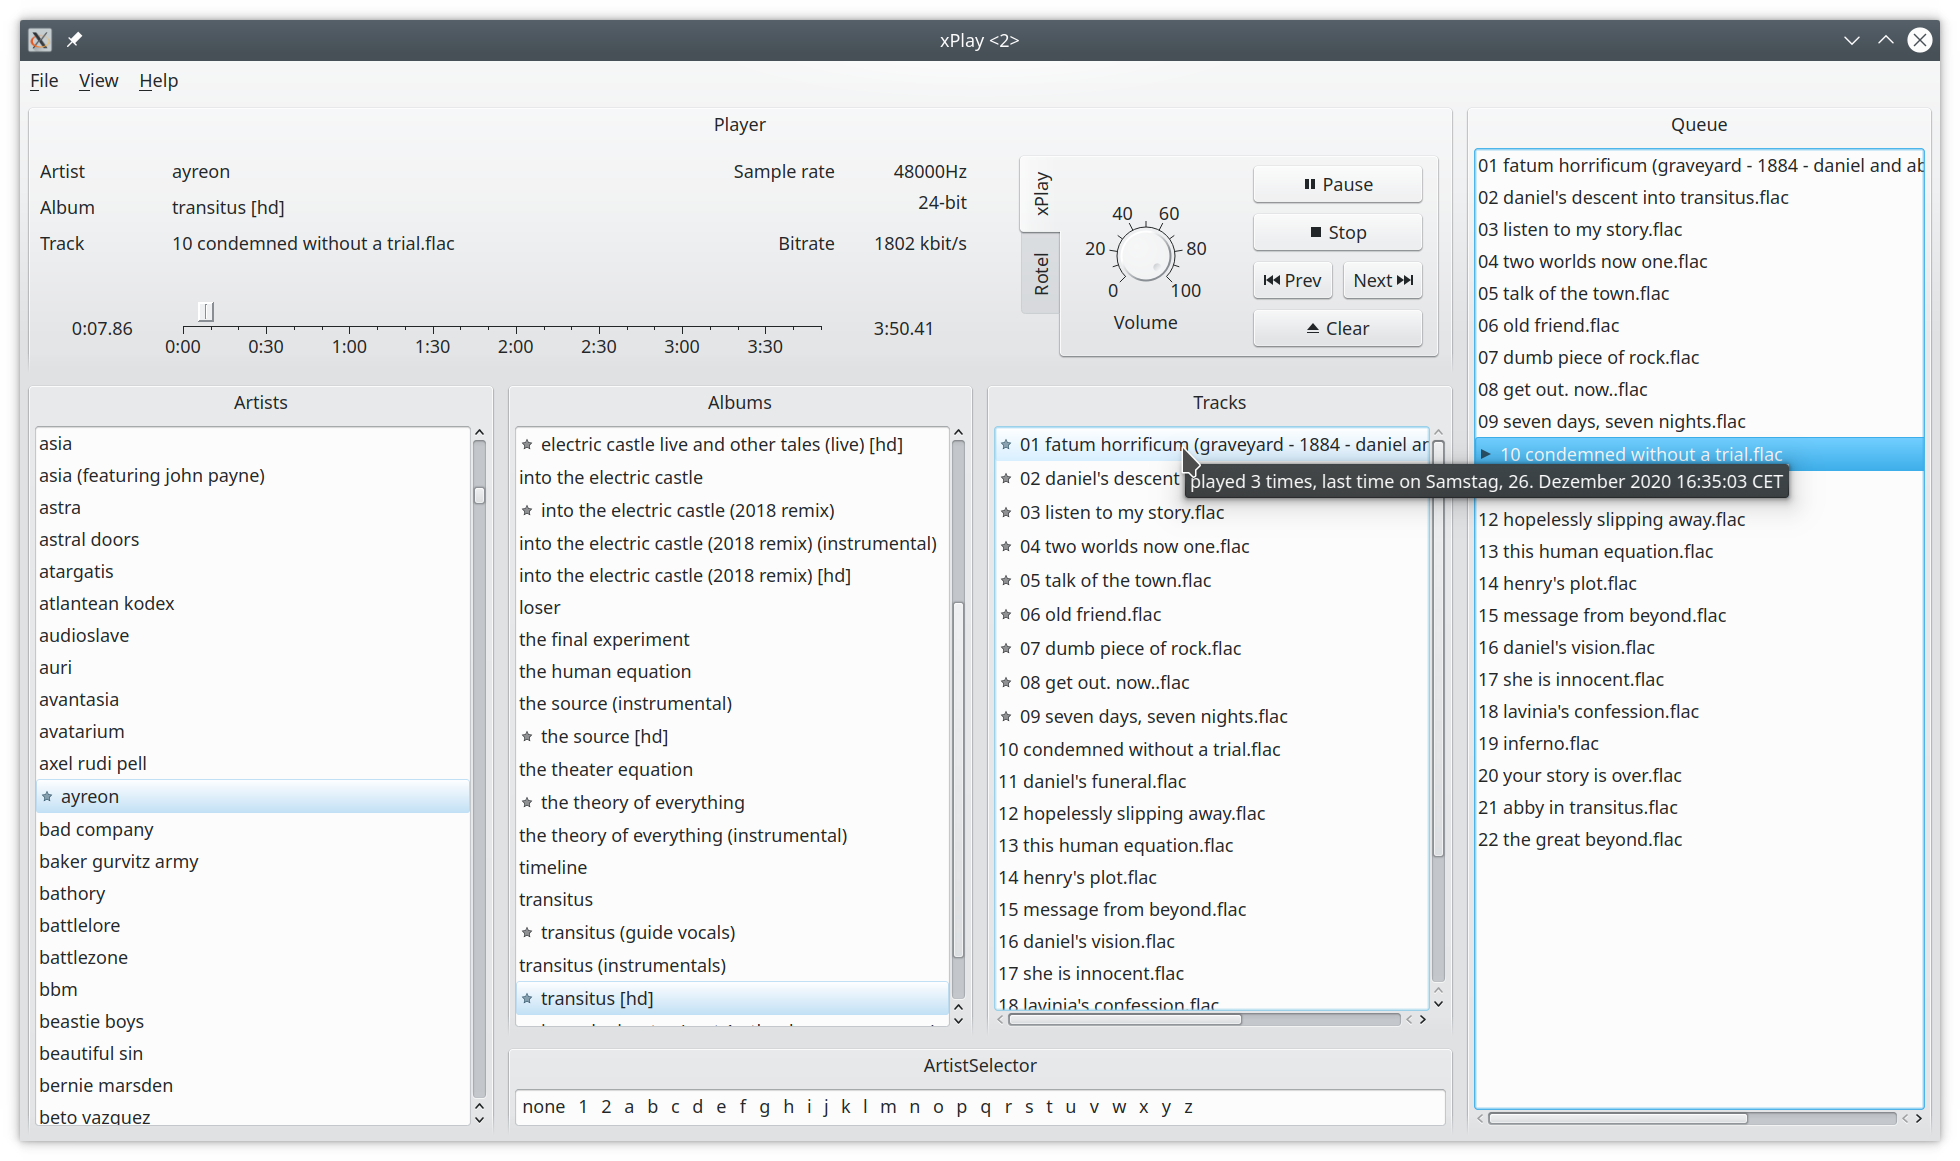
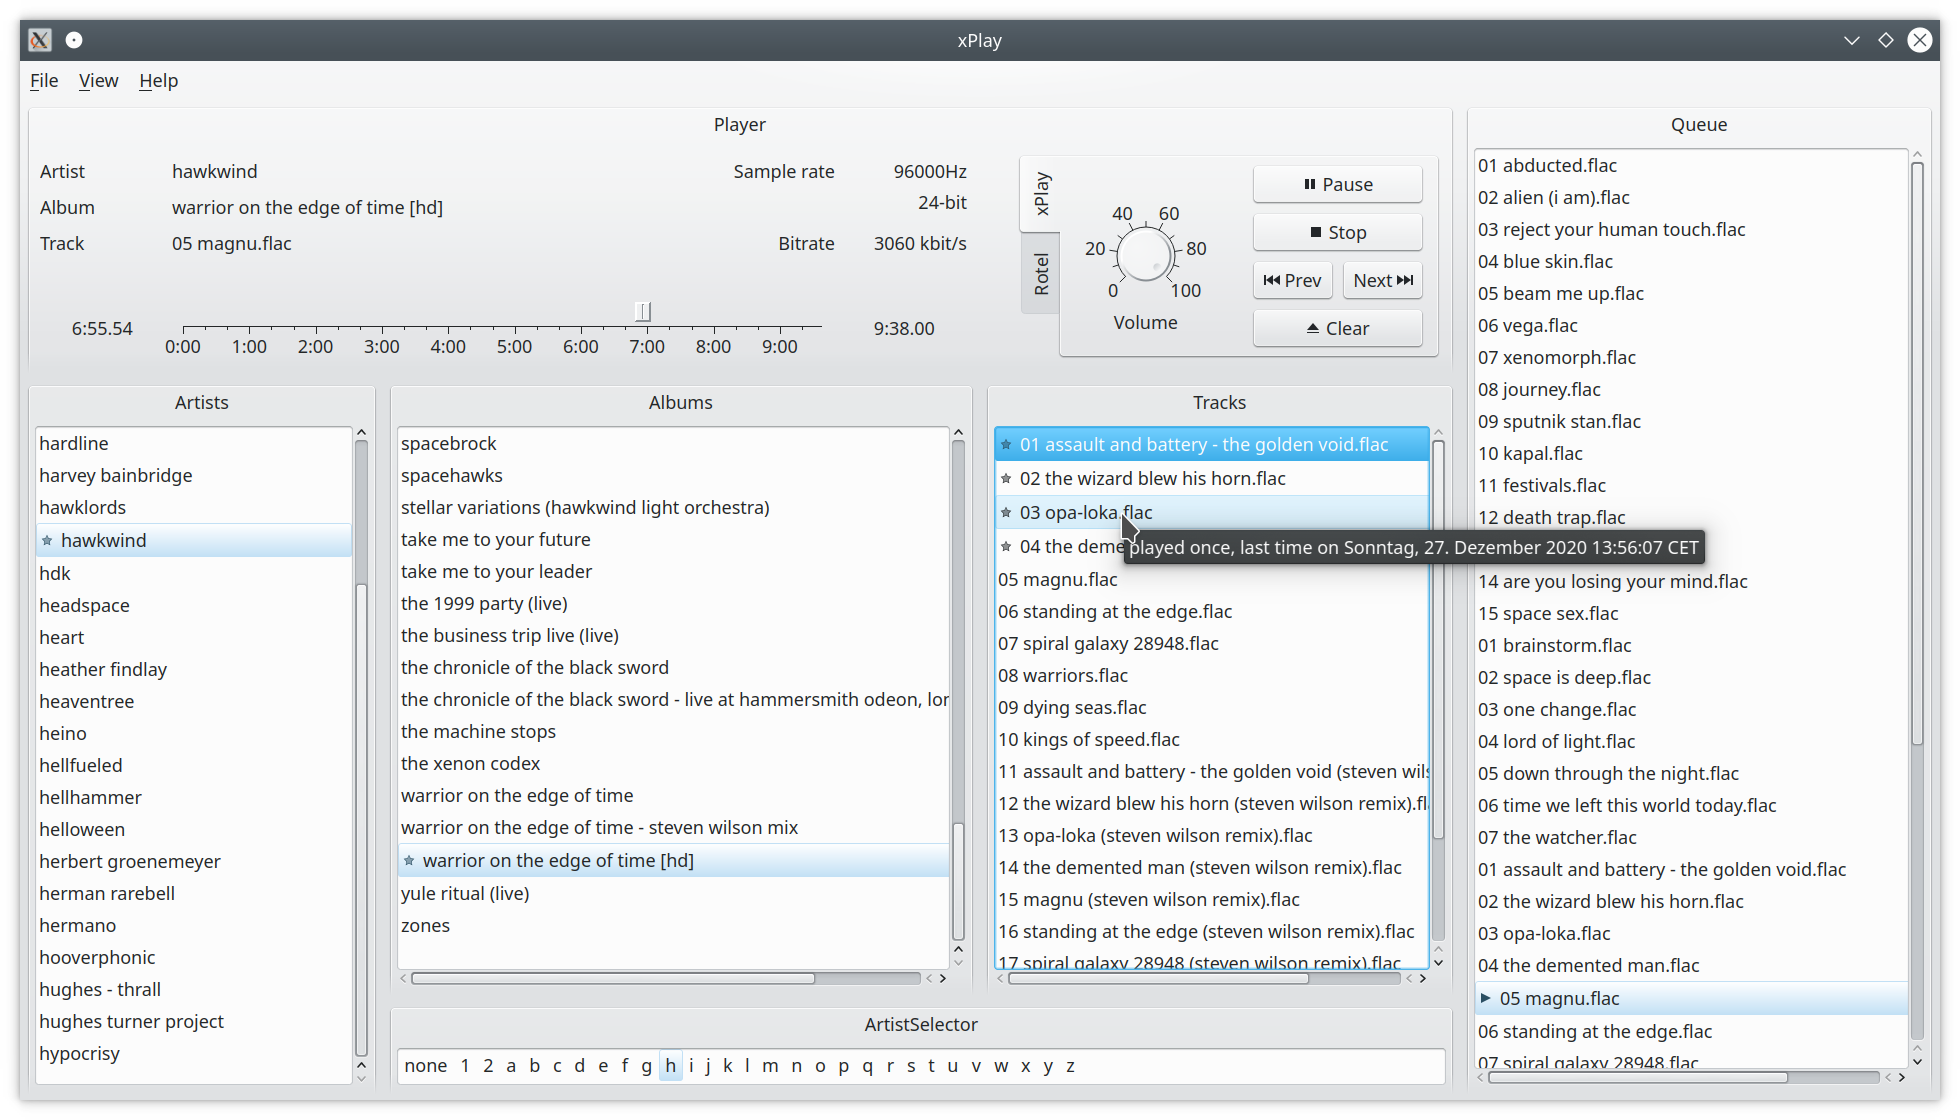
Update CHANGELOG.md and README.md. Update screenshots and version number.

diff --git a/xPlay.cpp b/xPlay.cpp
@@ -147,7 +147,7 @@ int main(int argc, char* argv[])
 {
     QApplication playApp(argc, argv);
     QApplication::setApplicationName("xPlay");
-    QApplication::setApplicationVersion("0.5.0");
+    QApplication::setApplicationVersion("0.5.1");
     if (handleCommandLine(playApp)) {
         // Exit if the command line was handled.
         return 0;

diff --git a/README.md b/README.md
@@ -85,11 +85,15 @@ The main screen of the music view has four vertical list for the artists, album,
 album list is updated if you click (or select) on an artist and the track list is updated if you click (or select) 
 on an album. If you double-click on a track in the track list, then the track and the following tracks of the list 
 are added to the queue. If you right-click on a track in the track list, then only this track will be added to the 
-queue. The horizontal artist selector list can be used to filter the artist list by the first character. The 
-filtering is removed if you click on *none*. The database overlay (if activated) marks every artist, album and track
-with a star (*) if it has been played within the configured time period. For each track a tooltip is added that shows
-how many times this track has been played and the last time it was played. The overlay makes it easier to identify 
-music that you have not listen too in some time or at all.
+queue. A double-click on an artist will queue all albums of the selected artist. The horizontal artist selector list 
+can be used to filter the artist list by the first character. The filtering is removed if you click on *none*. 
+If a selector is double-clicked then all selected artists with their albums are queue. A double-click on *none* will
+queue the entire music library.
+
+The database overlay (if activated) marks every artist, album and track with a star (*) if it has been played within 
+the configured time period. For each track a tooltip is added that shows how many times this track has been 
+played and the last time it was played. The overlay makes it easier to identify music that you have not listen 
+too in some time or at all.
 
 The player itself displays the artist, album and track currently played. It includes a slider to seek within the
 currently played file. In addition there is player control section with a *play/pause*, *stop*, *prev*, *next*

diff --git a/CHANGELOG.md b/CHANGELOG.md
@@ -1,5 +1,10 @@
 # Changelog
 
+## 0.5.1 - 2020-12-27
+
+- Adjusted music view layout.
+- Queue all artists matching selector on double-click.
+
 ## 0.5.0 - 2020-12-26
 
 - Add database for played music and movie files.
